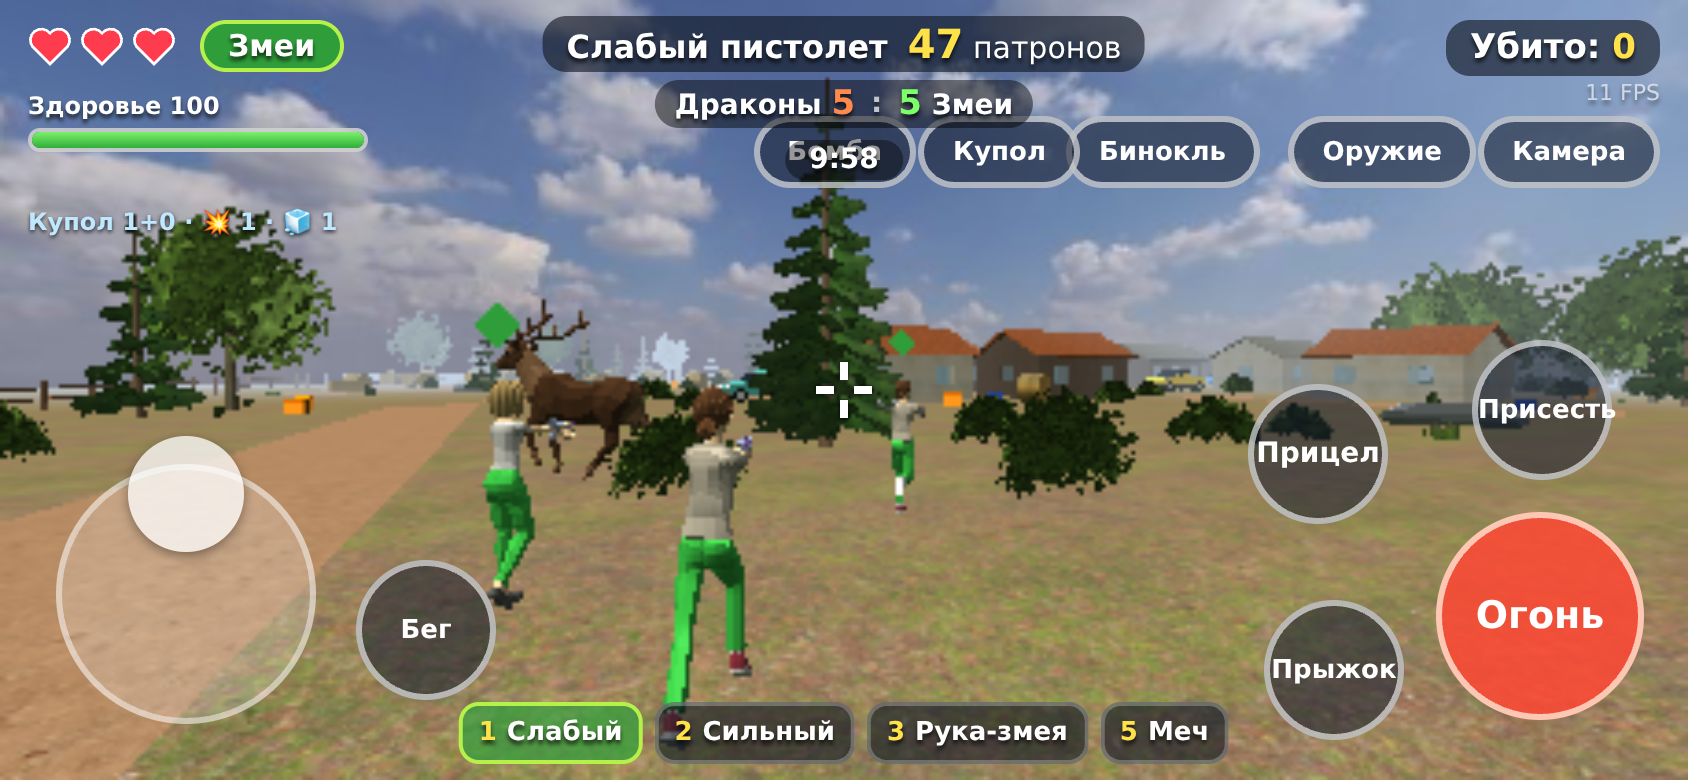
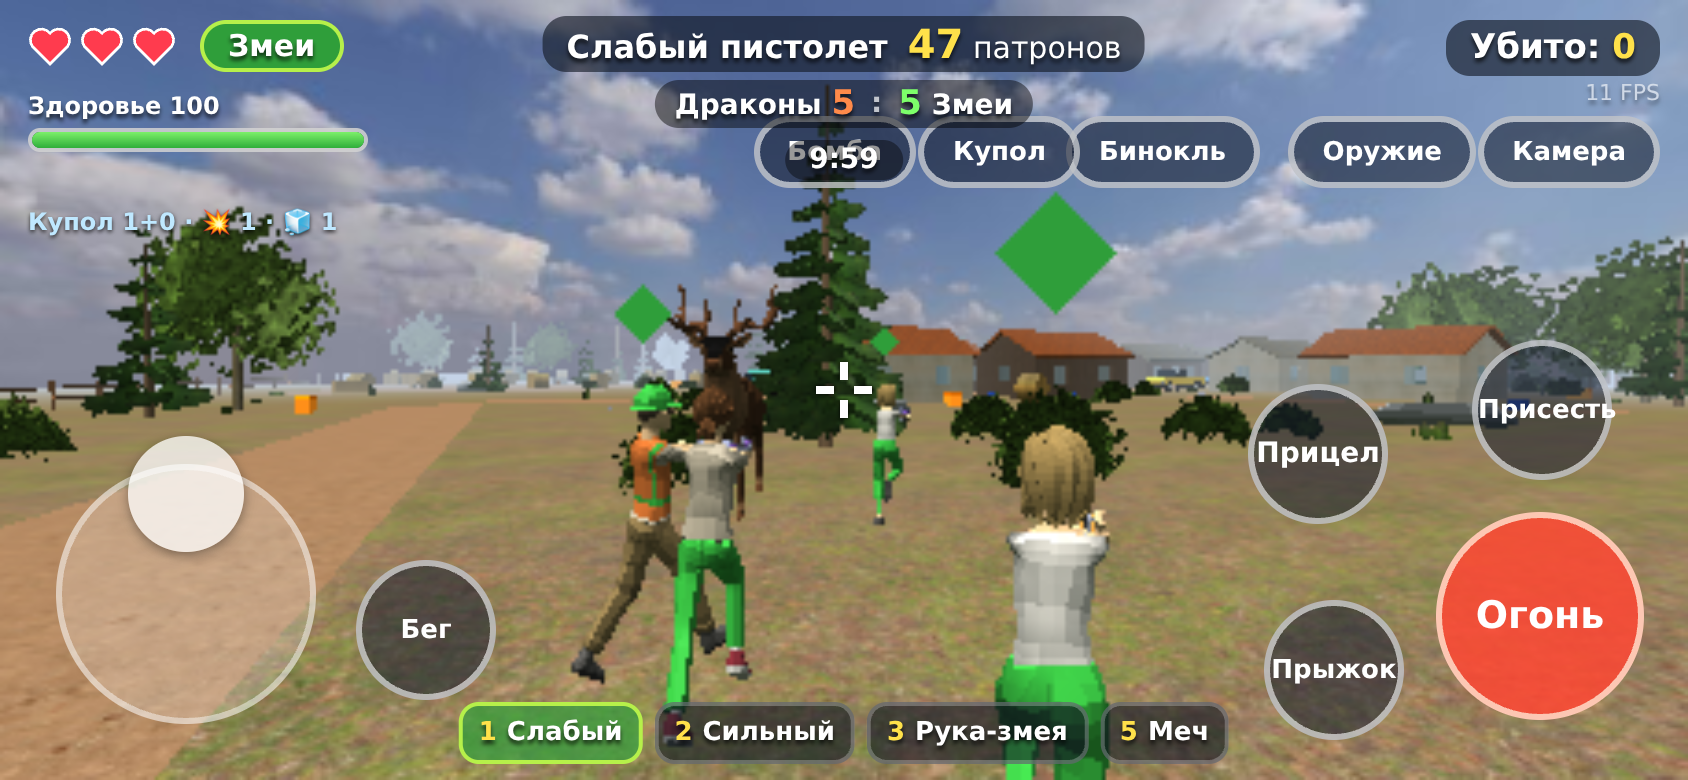
Tougher bots (bombs, knife) and birds
- Each bot carries one explosive and one freezing bomb per life and lobs
  them in an exact ballistic arc at a visible target 8-22 m away (12-22 s
  cooldown); the player can now be frozen too (10 s in ice, no moving or
  shooting, kicked out of a car; the dome protects).
- Within 2 m bots switch to a knife and stab for 10.
- Birds: two flocks circling over the map, flapping and gliding (12, or 6
  on phones / lower quality); no gameplay.
- Smoke: bot freeze bomb hits the player, bot knife hurts.

diff --git a/client/src/game.ts b/client/src/game.ts
@@ -29,6 +29,7 @@ import {
   type WeaponId,
 } from "@clan-battle/shared";
 import { Animal, type Prey } from "./animals";
+import { Birds } from "./birds";
 import { Bot, type BotContext, type Target } from "./bot";
 import { Effects, Sfx } from "./effects";
 import { Hud } from "./hud";
@@ -134,6 +135,7 @@ export class Game {
   };
   private medkits: AmmoChest[] = [];
   readonly animals: Animal[] = [];
+  private birds!: Birds;
   /** За рулём какой машины (или null) */
   driving: { mesh: Mesh; yaw: number; home: Vector3; homeYaw: number; speed?: number } | null = null;
   private carSpeed = 0;
@@ -146,6 +148,8 @@ export class Game {
   bombs = { weak: 1, strong: 0, boom: 1, frost: 1 };
   /** Летящие боевые бомбы */
   private thrown: { mesh: Mesh; pos: Vector3; vel: Vector3; kind: "boom" | "frost"; clan: ClanId }[] = [];
+  /** Игрока заморозили вражеской бомбой */
+  private playerFrozenUntil = -1;
   /** Ледяные глыбы вокруг замороженных */
   private ice: { mesh: Mesh; until: number; follow: Vector3 }[] = [];
   /** Активный купол бессмертия (один на игрока) */
@@ -263,6 +267,7 @@ export class Game {
     this.buildChests();
     this.buildMedkits();
     this.spawnAnimals();
+    this.birds = new Birds(this.scene, opts.detail < 1 ? 6 : 12);
 
     if (!opts.touch && !opts.lowFx) {
       const sg = new ShadowGenerator(2048, sun);
@@ -727,6 +732,25 @@ export class Game {
     }
   }
 
+  /** Бот бросает бомбу по дуге точно в цель (гравитация как у броска игрока) */
+  private botThrow(b: Bot, kind: "boom" | "frost", t: Target): void {
+    const from = b.humanoid.getMuzzlePosition();
+    const to = t.pos.add(new Vector3(0, 0.3, 0));
+    const d = to.subtract(from);
+    const horiz = Math.hypot(d.x, d.z);
+    const h = 12; // м/с по горизонтали
+    const time = Math.max(0.3, horiz / h);
+    const vel = new Vector3((d.x / horiz) * h, (d.y + 0.5 * 14 * time * time) / time, (d.z / horiz) * h);
+    const mesh = MeshBuilder.CreateSphere("bomb", { diameter: 0.22, segments: 8 }, this.scene);
+    mesh.material = flatMat(this.scene, kind === "boom" ? "#2a2a2a" : "#7fd8ff", kind === "boom" ? 0 : 0.4);
+    mesh.isPickable = false;
+    mesh.position.copyFrom(from);
+    this.thrown.push({ mesh, pos: from.clone(), vel, kind, clan: b.clan });
+    const vol = clamp(1 - Vector3.Distance(from, this.player.position) / 60, 0.1, 0.8);
+    this.sfx.swing(vol);
+    if (t === this.playerTarget) this.hud.message(kind === "boom" ? "Бомба! Беги!" : "Ледяная бомба! Уходи!", 1.2, "#ff6b5a");
+  }
+
   /** Взрыв: урон по площади (не по своим), звери тоже, окна в радиусе бьются */
   private explode(at: Vector3, clan: ClanId): void {
     const R = RULES.blastRadius;
@@ -785,7 +809,13 @@ export class Game {
       encase(a.pos, a.info.height + 0.3, a.info.radius + 0.2);
       n++;
     }
-    if (n > 0) this.hud.message(`Заморожено: ${n}`, 1.4, "#9fe8ff");
+    const p = this.player;
+    if (p.clan !== clan && p.alive && !this.inDome() && Vector3.Distance(p.position, at) <= R) {
+      this.playerFrozenUntil = until;
+      if (this.driving) this.exitCar();
+      encase(p.position, 1.95, 0.4);
+      this.hud.message("Тебя заморозили! 10 секунд во льду", 2, "#9fe8ff");
+    } else if (n > 0) this.hud.message(`Заморожено: ${n}`, 1.4, "#9fe8ff");
   }
 
   // ---------------- Окна ----------------
@@ -910,6 +940,7 @@ export class Game {
     this.setVmSwordLevel(1);
     this.chargeFrom = -1;
     this.bombs = { weak: 1, strong: 0, boom: 1, frost: 1 };
+    this.playerFrozenUntil = -1;
     for (const t of this.thrown) t.mesh.dispose();
     this.thrown = [];
     for (const c of this.ice) c.mesh.dispose();
@@ -945,6 +976,13 @@ export class Game {
   }
 
   private respawnPlayer(): void {
+    // Лёд не переживает смерть
+    this.playerFrozenUntil = -1;
+    this.ice = this.ice.filter((c) => {
+      if (c.follow !== this.player.position) return true;
+      c.mesh.dispose();
+      return false;
+    });
     const base = this.world.bases[this.opts.clan];
     const sp = base.spawns[Math.floor(this.rng() * base.spawns.length)];
     this.player.spawnAt(sp, base.facing, this.now);
@@ -1016,6 +1054,15 @@ export class Game {
     this.updateViewmodelWeapon();
 
     if (this.state === "playing") {
+      const frozen = this.now < this.playerFrozenUntil;
+      if (frozen) {
+        // Во льду: только смотреть по сторонам
+        input.moveX = input.moveZ = 0;
+        input.fire = false;
+        input.jumpPressed = false;
+        input.use = false;
+        input.bomb = null;
+      }
       if (input.use) this.toggleCar();
       if (this.driving) this.updateCar(dt);
       else p.update(dt, input, this.now, () => this.canStand(), (x, z, y) => this.world.floorAt(x, z, y));
@@ -1046,6 +1093,7 @@ export class Game {
     const ctx = this.botContext();
     for (const b of this.bots) b.update(dt, ctx);
     this.updateAnimals(dt);
+    this.birds.update(dt, this.now);
     this.updateDome(dt);
     this.updateThrown(dt);
     if (this.state === "playing" || this.state === "dead") this.updateMatch(dt);
@@ -1376,6 +1424,14 @@ export class Game {
       },
       randomWalkPoint: (near, radius) => this.world.randomWalkPoint(Math.random, near, radius),
       shoot: (b, t) => this.botShoot(b, t),
+      throwBomb: (b, kind, t) => this.botThrow(b, kind, t),
+      melee: (b, t) => {
+        const dmg = 10;
+        this.sfx.swing(0.6);
+        if (t.animal) t.animal.takeDamage(dmg, this.preyOf(b), this.now);
+        else if (t.bot) t.bot.takeDamage(dmg, b.position.clone(), this.now);
+        else if (this.state === "playing") this.damagePlayer(dmg);
+      },
       objective: (b) => {
         // Свой флаг захватывают — все бегут защищать; иначе штурмовики идут за чужим
         if (this.capture[b.clan].by) return this.world.bases[b.clan].flagPoint;

diff --git a/client/src/birds.ts b/client/src/birds.ts
@@ -1,0 +1,106 @@
+import { Color3, Mesh, MeshBuilder, Scene, StandardMaterial, TransformNode, Vector3 } from "@babylonjs/core";
+
+/**
+ * Птицы (GDD: «летают и поют, не сражаются»): две стайки кружат над картой,
+ * машут крыльями и иногда планируют. Чисто для живости мира — в бою не участвуют.
+ */
+
+interface Bird {
+  root: TransformNode;
+  wingL: Mesh;
+  wingR: Mesh;
+  /** Своя орбита: центр стаи + смещение, фаза и скорость */
+  offset: Vector3;
+  phase: number;
+  flap: number;
+}
+
+interface Flock {
+  center: Vector3;
+  radius: number;
+  height: number;
+  speed: number;
+  t: number;
+  birds: Bird[];
+}
+
+export class Birds {
+  private flocks: Flock[] = [];
+
+  constructor(scene: Scene, count: number) {
+    const body = new StandardMaterial("birdBody", scene);
+    body.diffuseColor = new Color3(0.18, 0.17, 0.16);
+    body.specularColor = new Color3(0, 0, 0);
+    const wing = new StandardMaterial("birdWing", scene);
+    wing.diffuseColor = new Color3(0.25, 0.24, 0.22);
+    wing.specularColor = new Color3(0, 0, 0);
+    wing.backFaceCulling = false;
+
+    const specs = [
+      { center: new Vector3(-20, 0, 25), radius: 22, height: 24, speed: 0.18 },
+      { center: new Vector3(25, 0, -20), radius: 16, height: 19, speed: -0.24 },
+    ];
+    let made = 0;
+    specs.forEach((sp, fi) => {
+      const flock: Flock = { ...sp, t: fi * 2, birds: [] };
+      const n = Math.ceil(count / specs.length);
+      for (let i = 0; i < n && made < count; i++, made++) {
+        const root = new TransformNode(`bird${fi}_${i}`, scene);
+        // Крупнее настоящих — иначе с земли на высоте 20 м их не разглядеть
+        root.scaling.setAll(2.6);
+        const b = MeshBuilder.CreateSphere(`birdB${fi}_${i}`, { diameterX: 0.12, diameterY: 0.1, diameterZ: 0.32, segments: 6 }, scene);
+        b.material = body;
+        b.parent = root;
+        b.isPickable = false;
+        const mk = (side: number) => {
+          // Крыло — плоский треугольник, шарнир у тела
+          const w = MeshBuilder.CreateDisc(`birdW${fi}_${i}_${side}`, { radius: 0.32, tessellation: 3 }, scene);
+          w.rotation.x = Math.PI / 2;
+          w.scaling.set(1, 0.45, 1);
+          w.bakeCurrentTransformIntoVertices();
+          w.position.x = side * 0.05;
+          const pivot = new TransformNode(`birdWP${fi}_${i}_${side}`, scene);
+          pivot.parent = root;
+          w.parent = pivot;
+          w.position.set(side * 0.3, 0, 0);
+          w.material = wing;
+          w.isPickable = false;
+          return w;
+        };
+        const wingL = mk(-1);
+        const wingR = mk(1);
+        flock.birds.push({
+          root,
+          wingL,
+          wingR,
+          offset: new Vector3((Math.random() - 0.5) * 6, (Math.random() - 0.5) * 3, (Math.random() - 0.5) * 6),
+          phase: Math.random() * Math.PI * 2,
+          flap: 9 + Math.random() * 3,
+        });
+      }
+      this.flocks.push(flock);
+    });
+  }
+
+  update(dt: number, now: number): void {
+    for (const f of this.flocks) {
+      f.t += dt * f.speed;
+      for (const b of f.birds) {
+        const a = f.t + b.phase * 0.05;
+        const wob = Math.sin(now * 0.7 + b.phase) * 1.5;
+        const x = f.center.x + Math.cos(a) * (f.radius + b.offset.x) ;
+        const z = f.center.z + Math.sin(a) * (f.radius + b.offset.z);
+        const y = f.height + b.offset.y + wob;
+        b.root.position.set(x, y, z);
+        // Летит по касательной к кругу
+        const dir = Math.sign(f.speed);
+        b.root.rotation.y = Math.atan2(-Math.sin(a) * dir, Math.cos(a) * dir);
+        // Взмахи; время от времени планирует с раскрытыми крыльями
+        const glide = Math.sin(now * 0.4 + b.phase) > 0.6;
+        const ang = glide ? 0.12 : Math.sin(now * b.flap + b.phase) * 0.7;
+        (b.wingL.parent as TransformNode).rotation.z = ang;
+        (b.wingR.parent as TransformNode).rotation.z = -ang;
+      }
+    }
+  }
+}

diff --git a/client/src/bot.ts b/client/src/bot.ts
@@ -26,6 +26,10 @@ export interface BotContext {
   randomWalkPoint(near?: Vector3, radius?: number): Vector3;
   shoot(bot: Bot, target: Target): void;
   basePoint(clan: ClanId): { pos: Vector3; yaw: number };
+  /** Бросить бомбу в цель */
+  throwBomb(bot: Bot, kind: "boom" | "frost", target: Target): void;
+  /** Удар ножом вплотную */
+  melee(bot: Bot, target: Target): void;
   /** Куда идти «по заданию»: штурмовикам — к вражескому флагу; null — просто бродить */
   objective(bot: Bot): Vector3 | null;
 }
@@ -41,6 +45,10 @@ export class Bot {
   lives: number = RULES.lives;
   /** Когда последний раз ранили — захват флага сбрасывается */
   lastHitAt = -999;
+  /** Бомбы на эту жизнь */
+  bombs = { boom: 1, frost: 1 };
+  private bombCooldown = 4;
+  private meleeCooldown = 0;
   /** Заморожен бомбой до этого момента: не ходит и не стреляет */
   frozenUntil = -1;
   /** Штурмовик: в свободное время идёт захватывать вражеский флаг */
@@ -133,6 +141,9 @@ export class Bot {
     this.goal.copyFrom(pos);
     this.sees = false;
     this.target = null;
+    this.bombs = { boom: 1, frost: 1 };
+    this.bombCooldown = 4 + Math.random() * 6;
+    this.humanoid.setWeapon(this.weapon);
     this.seeCheckIn = Math.random() * 0.2;
     this.humanoid.deathT = 0;
     this.humanoid.setEnabled(true);
@@ -288,8 +299,28 @@ export class Bot {
         moveSpeed = 2.4;
       }
 
+      // Вплотную — нож вместо выстрела
+      this.meleeCooldown -= dt;
+      this.bombCooldown -= dt;
+      const close = this.sees && dist < 1.9;
+      this.humanoid.setWeapon(close ? "sword" : this.weapon);
+      if (close) {
+        if (this.meleeCooldown <= 0) {
+          this.meleeCooldown = 0.9;
+          this.humanoid.swing();
+          ctx.melee(this, this.target);
+        }
+      } else if (this.sees && this.reactionLeft <= 0 && this.bombCooldown <= 0 && dist > 8 && dist < 22) {
+        // Бомба по дуге: сначала заморозить, потом взорвать
+        const kind = this.bombs.frost > 0 && Math.random() < 0.5 ? "frost" : this.bombs.boom > 0 ? "boom" : this.bombs.frost > 0 ? "frost" : null;
+        this.bombCooldown = 12 + Math.random() * 10;
+        if (kind) {
+          this.bombs[kind]--;
+          ctx.throwBomb(this, kind, this.target);
+        }
+      }
       // Стрельба
-      if (this.sees) {
+      if (this.sees && !close) {
         this.reactionLeft -= dt;
         this.shotCooldown -= dt;
         const facingErr = Math.abs(angleDiff(this.yaw, Math.atan2(toP.x, toP.z)));
